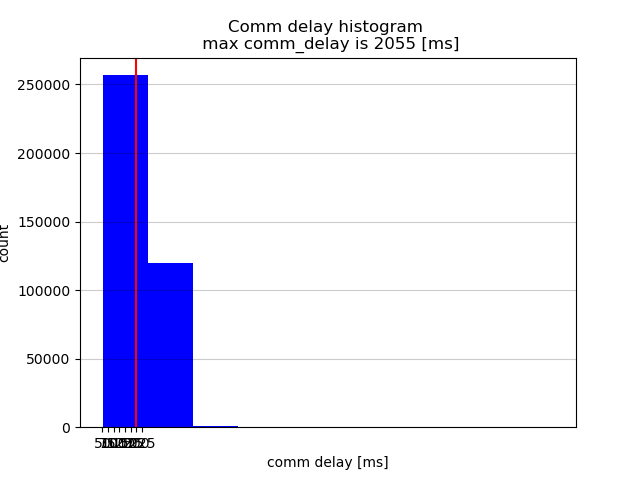
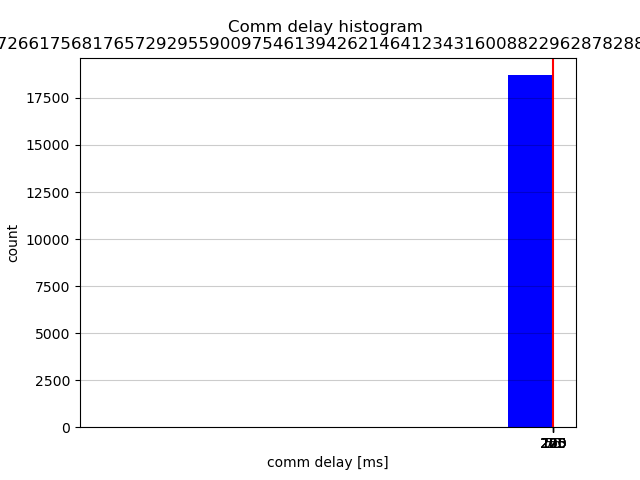
time_created is now()

diff --git a/mader/src/mader_ros.cpp b/mader/src/mader_ros.cpp
@@ -473,14 +473,7 @@ void MaderRos::publishOwnTraj(const mt::PieceWisePol& pwp, const bool& is_commit
 
   msg.pwp = mu::pwp2PwpMsg(pwp);
 
-  if (headsup_time < 1)  // can be headsup_time == 0.0 but for safety we do this
-  {
-    msg.time_created = ros::Time::now().toSec();
-  }
-  else
-  {
-    msg.time_created = headsup_time;
-  }
+  msg.time_created = ros::Time::now().toSec();
 
   // msg.time_sent = ros::Time::now().toSec();  // to measure comm delay between agents
 

diff --git a/mader/scripts/run_many_sims_multi_agent.py b/mader/scripts/run_many_sims_multi_agent.py
@@ -38,7 +38,7 @@ if __name__ == '__main__':
 
     # parameters
     is_oldmader=True
-    num_of_sims=60
+    num_of_sims=5
     num_of_agents=10
     how_long_to_wait = 50 #[s]
     if is_oldmader:
